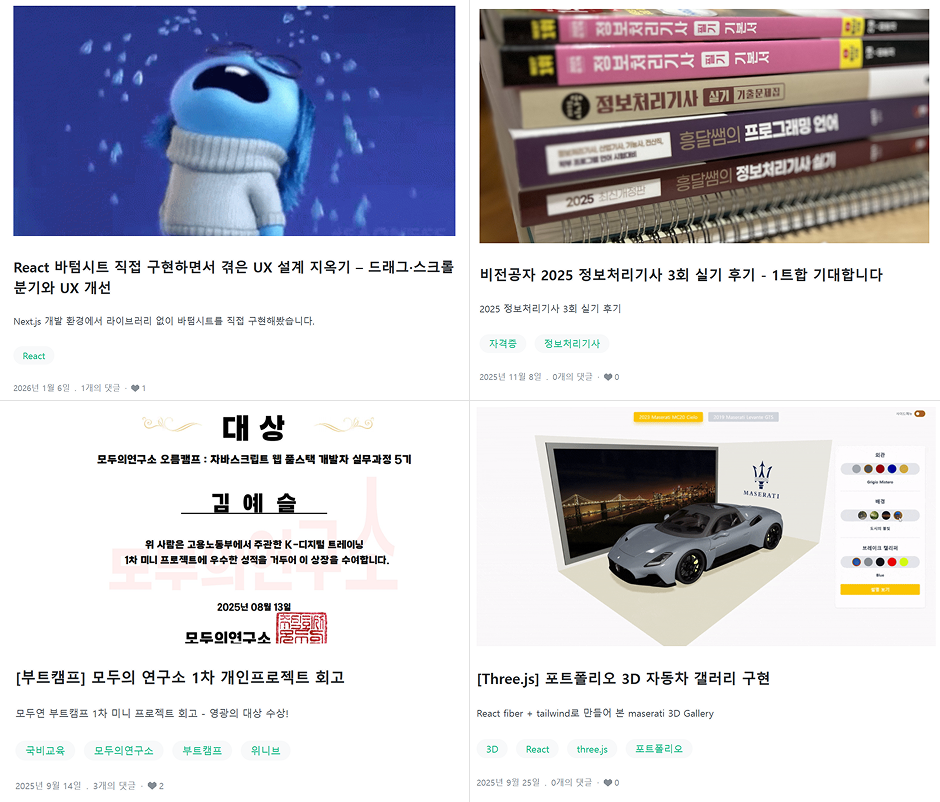
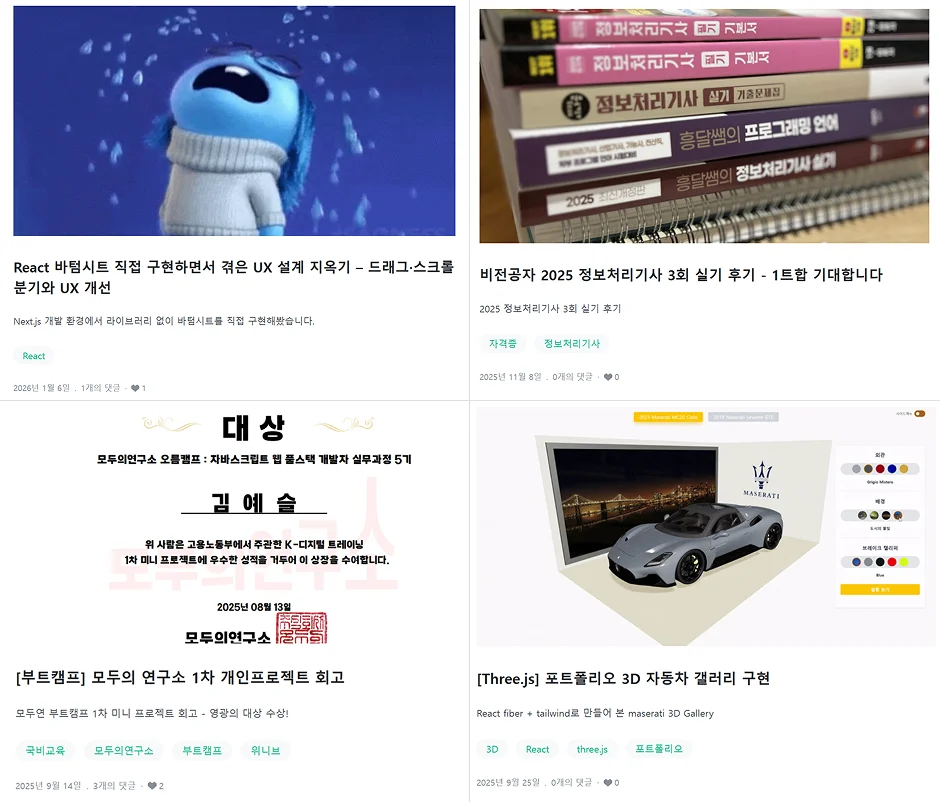
test: image압축 퀄리티 변환

diff --git a/src/introduce/IntroduceInner.tsx b/src/introduce/IntroduceInner.tsx
@@ -36,6 +36,8 @@ export const IntroduceInner = () => {
             <img
               src="/image/introduce/about-blog.webp"
               alt="블로그 작성 기록 샘플"
+              width={445}
+              height={380}
               loading="eager"
               fetchPriority="high"
             />
